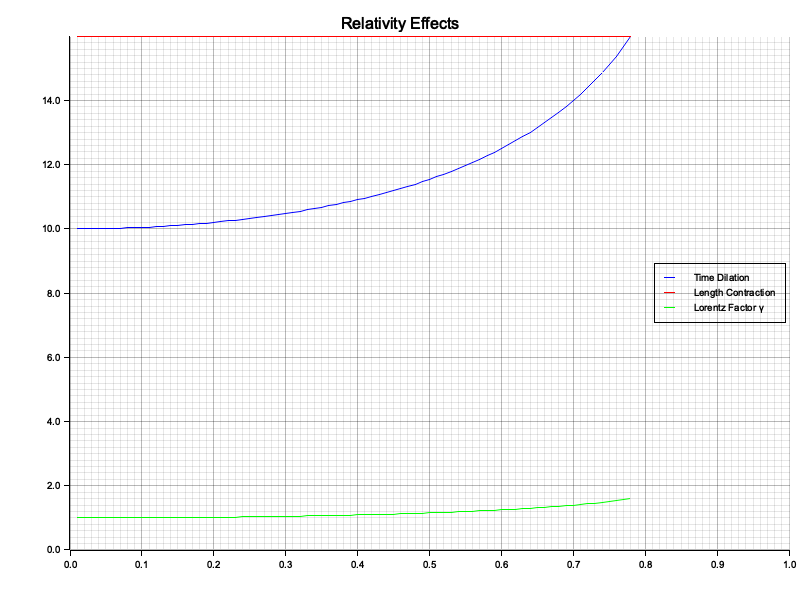
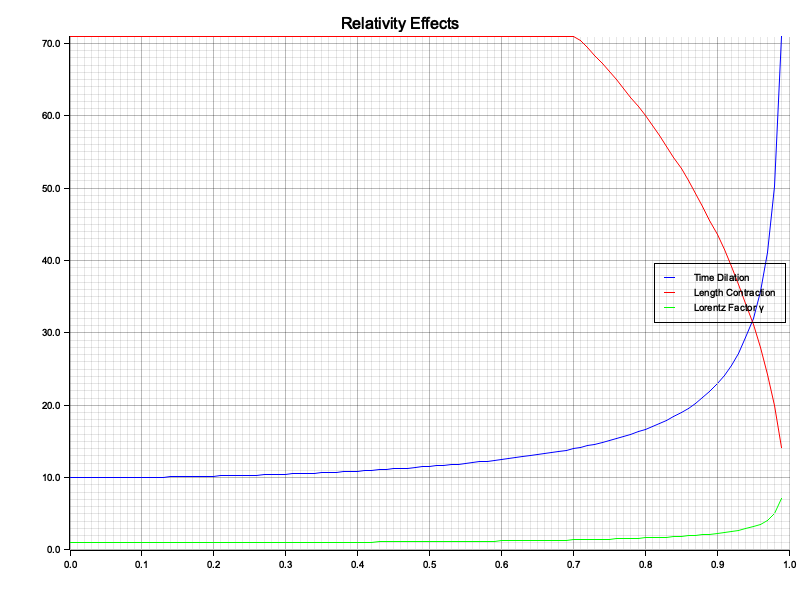
update metrics

Changed region(s): [[0.0312, 0.06, 1.0, 0.93]]

diff --git a/src/tui/mod.rs b/src/tui/mod.rs
@@ -1,4 +1,5 @@
 use std::io;
+
 use crossterm::{
     event::{self, Event, KeyCode},
     execute,
@@ -9,6 +10,7 @@ use ratatui::{
     layout::{Constraint, Direction, Layout},
     style::{Color, Style},
     symbols,
+    text::Span,
     widgets::{Axis, Block, Borders, Chart, Dataset, Paragraph},
     Terminal,
 };
@@ -16,7 +18,7 @@ use ratatui::{
 use crate::relativity::special::{lorentz_factor, length_contraction, C};
 use crate::metrics::{DataPoint, export_csv, plot_results};
 
-/// Chart display modes
+/// Which dataset(s) to show in the chart
 enum ChartMode {
     All,
     TimeDilation,
@@ -25,7 +27,7 @@ enum ChartMode {
 }
 
 pub fn start() -> anyhow::Result<()> {
-    // Setup terminal
+    // Terminal setup: alternate screen + raw mode
     let mut stdout = io::stdout();
     execute!(stdout, EnterAlternateScreen)?;
     crossterm::terminal::enable_raw_mode()?;
@@ -34,14 +36,20 @@ pub fn start() -> anyhow::Result<()> {
 
     // Simulation state
     let mut velocity_fraction: f64 = 0.0;
-    let proper_time: f64 = 10.0;      // years
-    let proper_length: f64 = 100.0;   // meters
+    let proper_time: f64 = 10.0; // years
+    let proper_length: f64 = 100.0; // meters
     let mut log: Vec<DataPoint> = Vec::new();
     let mut chart_mode = ChartMode::All;
 
+    // push initial sample so chart isn't empty
+    log.push(snapshot(velocity_fraction, proper_time, proper_length));
+
+    // Main loop
     loop {
         terminal.draw(|f| {
-            let size = f.area();
+            // area / layout
+            // note: older ratatui used `.size()`; if you have deprecation warnings you can use `.area()` depending on your ratatui version
+            let area = f.size();
             let chunks = Layout::default()
                 .direction(Direction::Vertical)
                 .margin(1)
@@ -54,48 +62,40 @@ pub fn start() -> anyhow::Result<()> {
                     ]
                     .as_ref(),
                 )
-                .split(size);
+                .split(area);
 
-            // Current values
+            // current values
             let v = velocity_fraction * C;
             let gamma = lorentz_factor(v);
             let dilated_time = proper_time * gamma;
             let contracted_length = length_contraction(proper_length, v);
 
-            // Top stats display
-            let stats = vec![
-                Paragraph::new(format!("Velocity: {:.2}c", velocity_fraction))
-                    .block(Block::default().borders(Borders::ALL)),
-                Paragraph::new(format!("Lorentz factor (γ): {:.4}", gamma))
-                    .block(Block::default().borders(Borders::ALL)),
-                Paragraph::new(format!(
-                    "Time: proper = {:.1} y | dilated = {:.2} y",
-                    proper_time, dilated_time
-                ))
-                .block(Block::default().borders(Borders::ALL)),
-            ];
+            // top / small stats
+            let stat_left = Paragraph::new(format!("Velocity: {:.2} c", velocity_fraction))
+                .block(Block::default().borders(Borders::ALL));
+            let stat_mid = Paragraph::new(format!("γ (Lorentz): {:.4}", gamma))
+                .block(Block::default().borders(Borders::ALL));
+            let stat_right = Paragraph::new(format!(
+                "Time: proper = {:.1} y | dilated = {:.2} y",
+                proper_time, dilated_time
+            ))
+            .block(Block::default().borders(Borders::ALL));
 
-            for (i, stat) in stats.into_iter().enumerate() {
-                f.render_widget(stat, chunks[i]);
-            }
+            f.render_widget(stat_left, chunks[0]);
+            f.render_widget(stat_mid, chunks[1]);
+            f.render_widget(stat_right, chunks[2]);
 
+            // --- build owned data arrays so references live long enough ---
+            let gamma_data: Vec<(f64, f64)> = log.iter().map(|d| (d.velocity_fraction, d.gamma)).collect();
+            let time_data: Vec<(f64, f64)> = log.iter().map(|d| (d.velocity_fraction, d.dilated_time)).collect();
+            let length_data: Vec<(f64, f64)> = log.iter().map(|d| (d.velocity_fraction, d.contracted_length)).collect();
 
-            // Precompute all datasets safely
-            let gamma_data: Vec<(f64, f64)> = log.iter()
-                .map(|d| (d.velocity_fraction, d.gamma))
-                .collect();
-            let time_data: Vec<(f64, f64)> = log.iter()
-                .map(|d| (d.velocity_fraction, d.dilated_time))
-                .collect();
-            let length_data: Vec<(f64, f64)> = log.iter()
-                .map(|d| (d.velocity_fraction, d.contracted_length))
-                .collect();
-
+            // choose datasets based on mode
             let datasets = match chart_mode {
                 ChartMode::All => vec![
                     Dataset::default()
                         .name("γ (Lorentz)")
-                        .marker(symbols::Marker::Dot)
+                        .marker(symbols::Marker::Braille)
                         .style(Style::default().fg(Color::Yellow))
                         .data(&gamma_data),
                     Dataset::default()
@@ -109,71 +109,90 @@ pub fn start() -> anyhow::Result<()> {
                         .style(Style::default().fg(Color::Magenta))
                         .data(&length_data),
                 ],
-                ChartMode::TimeDilation => vec![Dataset::default()
-                    .name("Time Dilation")
-                    .marker(symbols::Marker::Braille)
-                    .style(Style::default().fg(Color::Cyan))
-                    .data(&time_data)],
-                ChartMode::LengthContraction => vec![Dataset::default()
-                    .name("Length Contraction")
-                    .marker(symbols::Marker::Dot)
-                    .style(Style::default().fg(Color::Magenta))
-                    .data(&length_data)],
-                ChartMode::LorentzFactor => vec![Dataset::default()
-                    .name("γ (Lorentz)")
-                    .marker(symbols::Marker::Dot)
-                    .style(Style::default().fg(Color::Yellow))
-                    .data(&gamma_data)],
+                ChartMode::TimeDilation => vec![
+                    Dataset::default()
+                        .name("Time Dilation")
+                        .marker(symbols::Marker::Braille)
+                        .style(Style::default().fg(Color::Cyan))
+                        .data(&time_data),
+                ],
+                ChartMode::LengthContraction => vec![
+                    Dataset::default()
+                        .name("Length Contraction")
+                        .marker(symbols::Marker::Dot)
+                        .style(Style::default().fg(Color::Magenta))
+                        .data(&length_data),
+                ],
+                ChartMode::LorentzFactor => vec![
+                    Dataset::default()
+                        .name("γ (Lorentz)")
+                        .marker(symbols::Marker::Braille)
+                        .style(Style::default().fg(Color::Yellow))
+                        .data(&gamma_data),
+                ],
             };
 
+            // dynamic y-axis max (safe fallback to 1.0)
+            let y_max = {
+                let max_val = match chart_mode {
+                    ChartMode::All => {
+                        gamma_data.iter().map(|(_, y)| *y)
+                            .chain(time_data.iter().map(|(_, y)| *y))
+                            .chain(length_data.iter().map(|(_, y)| *y))
+                            .fold(1.0_f64, f64::max)
+                    }
+                    ChartMode::TimeDilation => time_data.iter().map(|(_, y)| *y).fold(1.0_f64, f64::max),
+                    ChartMode::LengthContraction => length_data.iter().map(|(_, y)| *y).fold(1.0_f64, f64::max),
+                    ChartMode::LorentzFactor => gamma_data.iter().map(|(_, y)| *y).fold(1.0_f64, f64::max),
+                };
+                // if max_val is <= 0, fallback to 1.0
+                if max_val <= 0.0 { 1.0 } else { max_val }
+            };
 
-
-            // Chart widget
+            // chart widget with legend hint in title (instructions)
             let chart = Chart::new(datasets)
                 .block(
                     Block::default()
-                        .title("Relativity Visualisation (a=all, t=time, l=length, g=γ, q=quit)")
+                        .title("Relativity Visualization — (a:all, t:time, l:length, g:γ, ←/→:change v, q:quit)")
                         .borders(Borders::ALL),
                 )
                 .x_axis(
                     Axis::default()
-                        .title("Velocity (c)")
+                        .title("Velocity (fraction of c)")
                         .bounds([0.0, 1.0]),
                 )
                 .y_axis(
                     Axis::default()
-                        .title("Values")
-                        .bounds([0.0, proper_time * 10.0]),
+                        .title("Value")
+                        .bounds([0.0, y_max * 1.1]), // 10% padding
                 );
 
             f.render_widget(chart, chunks[3]);
         })?;
 
-        // Handle input
-        if event::poll(std::time::Duration::from_millis(200))? {
+        // input / events
+        if event::poll(std::time::Duration::from_millis(100))? {
             if let Event::Key(key) = event::read()? {
                 match key.code {
-                    KeyCode::Right => {
-                        if velocity_fraction < 0.99 {
-                            velocity_fraction += 0.01;
-                        }
+                    KeyCode::Left => {
+                        velocity_fraction = (velocity_fraction - 0.01).max(0.0);
                         log.push(snapshot(velocity_fraction, proper_time, proper_length));
                     }
-                    KeyCode::Left => {
-                        if velocity_fraction > 0.0 {
-                            velocity_fraction -= 0.01;
-                        }
+                    KeyCode::Right => {
+                        velocity_fraction = (velocity_fraction + 0.01).min(0.99);
                         log.push(snapshot(velocity_fraction, proper_time, proper_length));
                     }
                     KeyCode::Char('a') => chart_mode = ChartMode::All,
                     KeyCode::Char('t') => chart_mode = ChartMode::TimeDilation,
                     KeyCode::Char('l') => chart_mode = ChartMode::LengthContraction,
                     KeyCode::Char('g') => chart_mode = ChartMode::LorentzFactor,
-                    KeyCode::Char('q') => {
+                    KeyCode::Char('q') | KeyCode::Esc => {
+                        // clean up terminal first
                         crossterm::terminal::disable_raw_mode()?;
                         execute!(terminal.backend_mut(), LeaveAlternateScreen)?;
                         terminal.show_cursor()?;
 
+                        // export and plot using metrics helpers
                         export_csv(&log)?;
                         plot_results(&log)?;
                         break;
@@ -187,6 +206,7 @@ pub fn start() -> anyhow::Result<()> {
     Ok(())
 }
 
+/// create DataPoint from state
 fn snapshot(velocity_fraction: f64, proper_time: f64, proper_length: f64) -> DataPoint {
     let v = velocity_fraction * C;
     let gamma = lorentz_factor(v);

diff --git a/src/main.rs b/src/main.rs
@@ -47,8 +47,8 @@ fn run_metrics() -> anyhow::Result<()> {
         let v_frac = i as f64 / 100.0;
         let v = v_frac * relativity::special::C;
         let gamma = lorentz_factor(v);
-        let dilated_time = proper_time * gamma;
-        let contracted_length = relativity::special::length_contraction(proper_length, v);
+        // let dilated_time = proper_time * gamma;
+        // let contracted_length = relativity::special::length_contraction(proper_length, v);
     //     writeln!(
     //     file,
     //     "{:.2},{:.6},{:.1},{:.6},{:.1},{:.6}",
